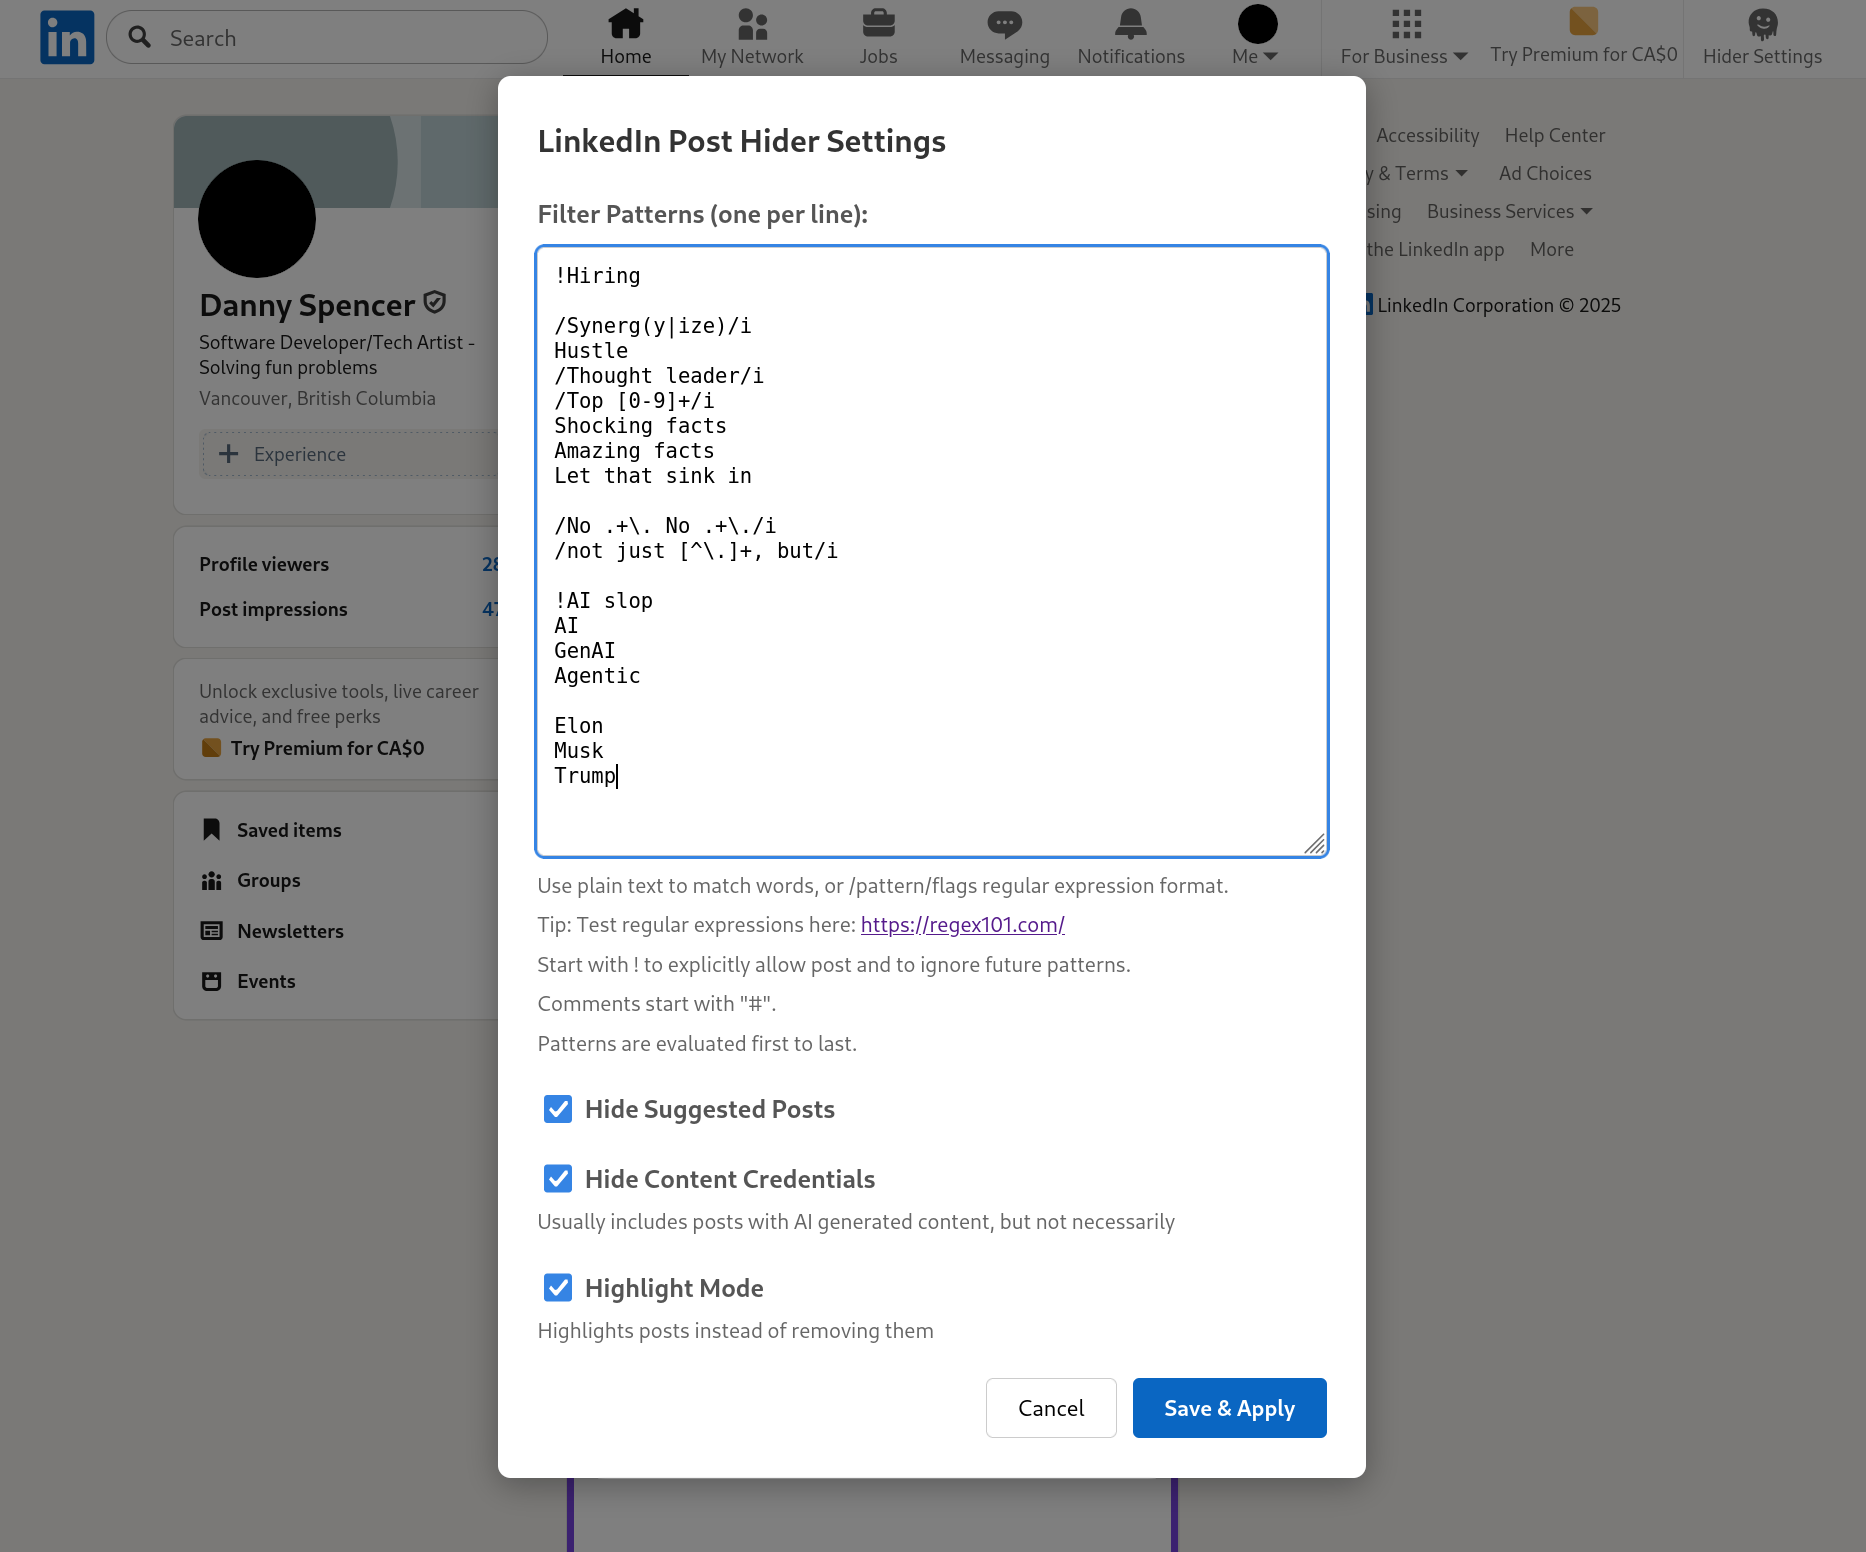
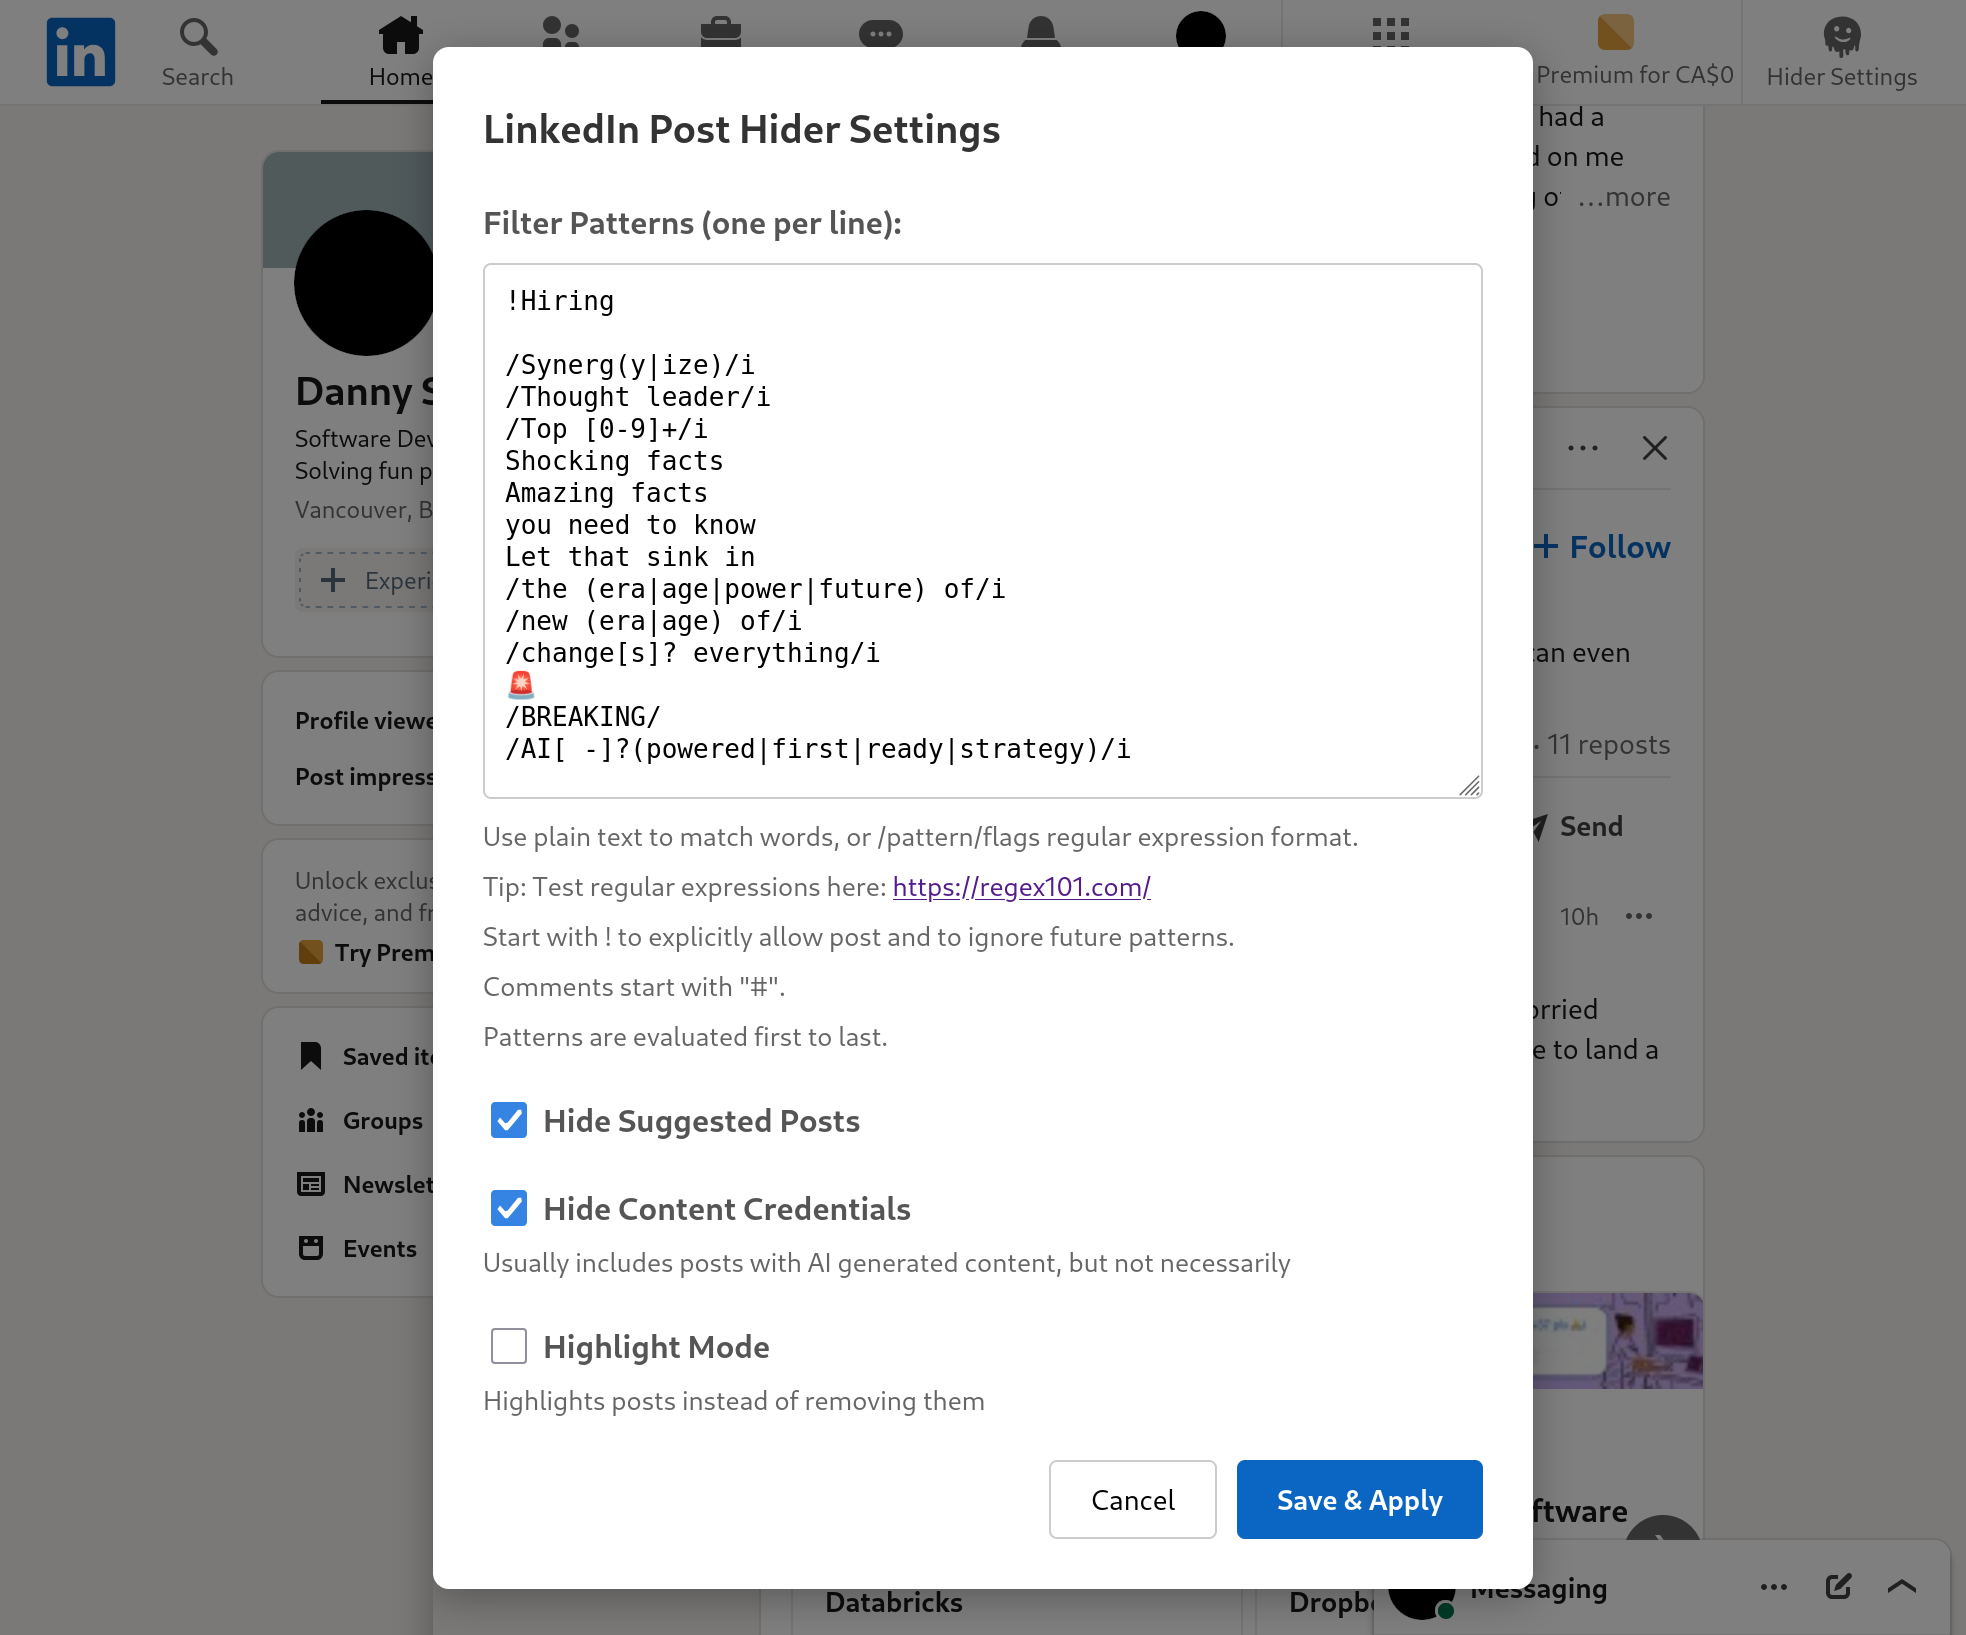
Update README

Changed region(s): [[0.0, 0.0, 0.9636, 1.0], [0.8392, 0.1856, 0.8703, 0.2165]]

diff --git a/README.md b/README.md
@@ -33,6 +33,8 @@ Hide LinkedIn posts from your feed by using keywords and regex patterns. Designe
 </tr>
 </table>
 
+![Screenshot of highlighting feature](docs/screenshot3.png)
+
 ## Installation
 
 **1. Install the TamperMonkey extension**. Follow the instructions on the official website: https://www.tampermonkey.net/
